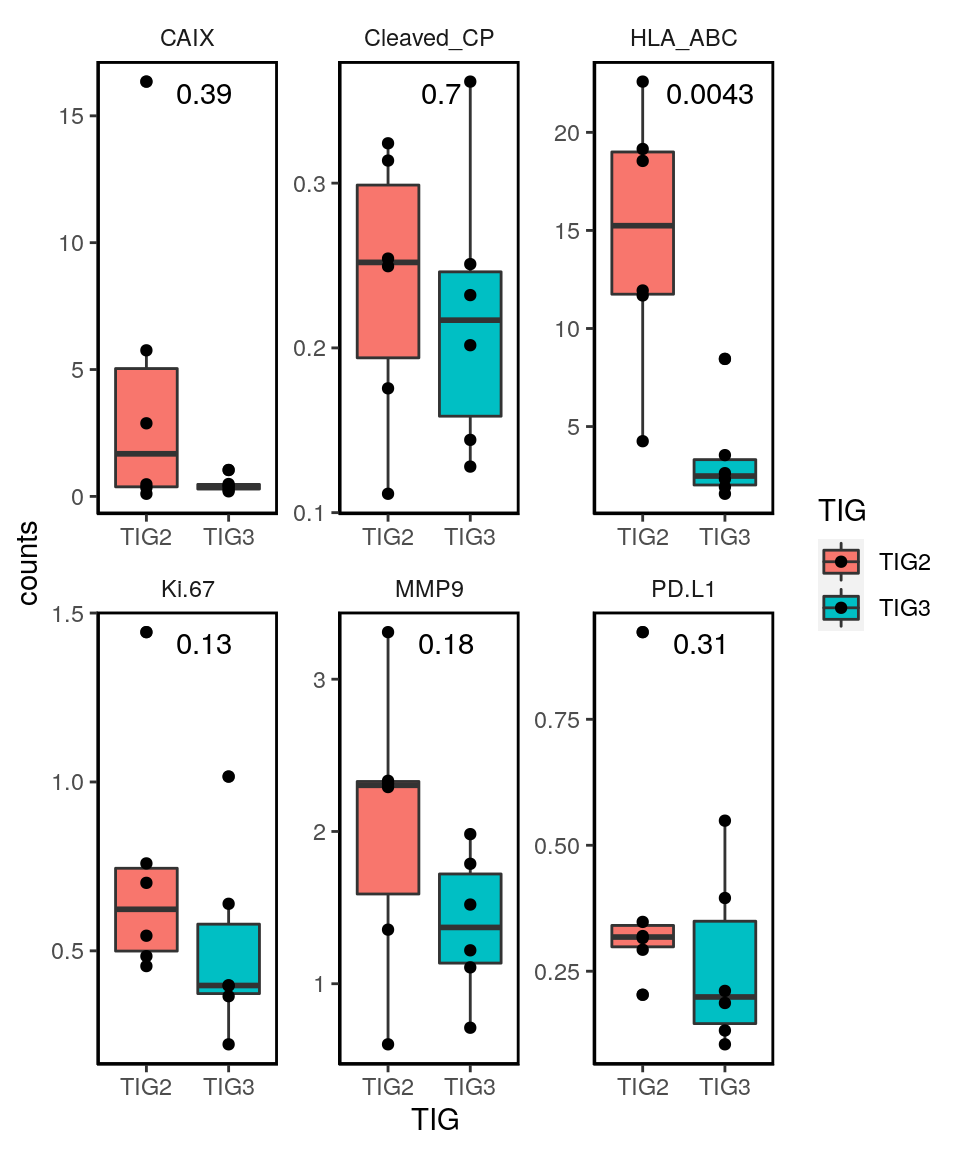
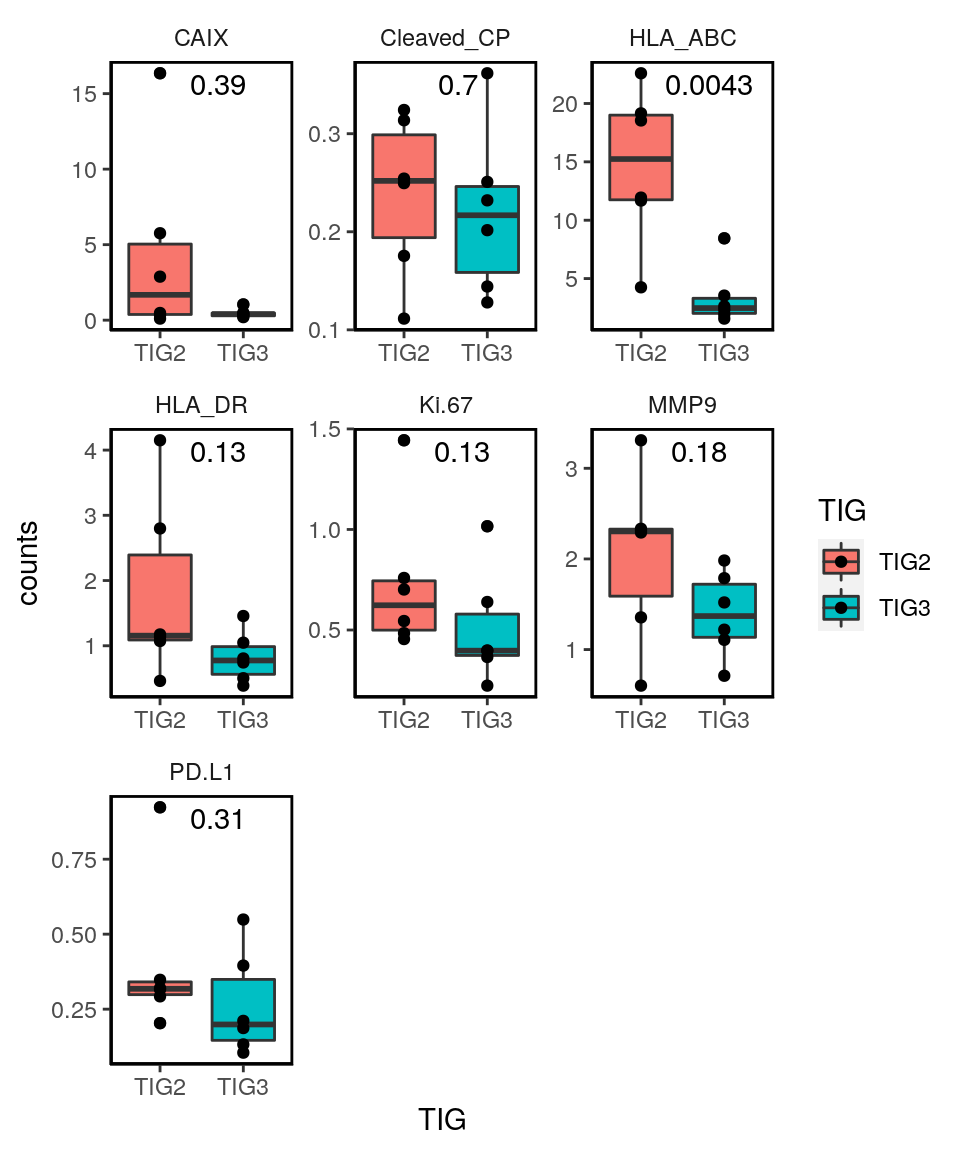
Build site.

Changed region(s): [[0.0625, 0.0, 0.8125, 1.0], [0.125, 0.9375, 0.1875, 0.9688], [0.75, 0.1875, 0.7812, 0.2188]]

diff --git a/docs/06_proteinPanel_tumor_analysis.html b/docs/06_proteinPanel_tumor_analysis.html
@@ -413,7 +413,7 @@ div.tocify {
 <div class="tab-content">
 <div id="summary" class="tab-pane fade in active">
 <p>
-<strong>Last updated:</strong> 2020-11-26
+<strong>Last updated:</strong> 2021-02-10
 </p>
 <p>
 <strong>Checks:</strong> <span class="glyphicon glyphicon-ok text-success" aria-hidden="true"></span> 7 <span class="glyphicon glyphicon-exclamation-sign text-danger" aria-hidden="true"></span> 0
@@ -504,16 +504,16 @@ This reproducible <a href="http://rmarkdown.rstudio.com">R Markdown</a> analysis
 <div class="panel panel-default">
 <div class="panel-heading">
 <p class="panel-title">
-<a data-toggle="collapse" data-parent="#workflowr-checks" href="#strongRepositoryversionstrongahrefhttpsgithubcomSandraTietscherBCexhIMCtreeb796124309ef6b8799c7f18ee42c7349eab777cctargetblankb796124a"> <span class="glyphicon glyphicon-ok text-success" aria-hidden="true"></span> <strong>Repository version:</strong> <a href="https://github.com/SandraTietscher/BCexh_IMC/tree/b796124309ef6b8799c7f18ee42c7349eab777cc" target="_blank">b796124</a> </a>
+<a data-toggle="collapse" data-parent="#workflowr-checks" href="#strongRepositoryversionstrongahrefhttpsgithubcomSandraTietscherBCexhIMCtree15d72a1081352039bbc76412f676cfdde2cee031targetblank15d72a1a"> <span class="glyphicon glyphicon-ok text-success" aria-hidden="true"></span> <strong>Repository version:</strong> <a href="https://github.com/SandraTietscher/BCexh_IMC/tree/15d72a1081352039bbc76412f676cfdde2cee031" target="_blank">15d72a1</a> </a>
 </p>
 </div>
[2 lines of base64/hex data omitted]
 <div class="panel-body">
 <p>
 Great! You are using Git for version control. Tracking code development and connecting the code version to the results is critical for reproducibility.
 </p>
 <p>
-The results in this page were generated with repository version <a href="https://github.com/SandraTietscher/BCexh_IMC/tree/b796124309ef6b8799c7f18ee42c7349eab777cc" target="_blank">b796124</a>. See the <em>Past versions</em> tab to see a history of the changes made to the R Markdown and HTML files.
+The results in this page were generated with repository version <a href="https://github.com/SandraTietscher/BCexh_IMC/tree/15d72a1081352039bbc76412f676cfdde2cee031" target="_blank">15d72a1</a>. See the <em>Past versions</em> tab to see a history of the changes made to the R Markdown and HTML files.
 </p>
 <p>
 Note that you need to be careful to ensure that all relevant files for the analysis have been committed to Git prior to generating the results (you can use <code>wflow_publish</code> or <code>wflow_git_commit</code>). workflowr only checks the R Markdown file, but you know if there are other scripts or data files that it depends on. Below is the status of the Git repository when the results were generated:
@@ -523,12 +523,20 @@ Ignored files:
     Ignored:    analysis/.Rhistory
 
 Untracked files:
+    Untracked:  BB184_aDC_PD1.png
+    Untracked:  BB212_aDC_PD1.png
+    Untracked:  BB212_aDC_PD1_Bcells.png
     Untracked:  CD11c_CD68_scatter.png
-    Untracked:  Neighbourhood_TLS_relative.pdf
     Untracked:  Neighbourhood_TLS_relative.png
-    Untracked:  Neighbourhood_all_relative.pdf
     Untracked:  Neighbourhood_all_relative.png
+    Untracked:  PD1_tumor_neighbour_boxplot.png
+    Untracked:  RNApanel_ROImean_HLAABC_CXCL13protein.png
+    Untracked:  RNApanel_ROImean_HLAABC_CXCL13rna.png
+    Untracked:  RNApanel_nonrandom_clusters.pdf
+    Untracked:  TBB129_aDC_PD1.png
+    Untracked:  TBB129_aDC_PD1_Bcell.png
     Untracked:  analysis/XX_RNApanel_neighbourhood.Rmd
+    Untracked:  barplot_tumorSubtype_image.pdf
     Untracked:  cytokine_environment.png
     Untracked:  data/RNAseq_Tcells.rds
     Untracked:  data/RNAseq_epithelial.rds
@@ -550,12 +558,13 @@ Untracked files:
     Untracked:  output/sce_RNApanel_afterQC.rds
     Untracked:  output/sce_RNApanel_initial.rds
     Untracked:  output/sce_RNApanel_initial_TLSrevised.rds
-    Untracked:  test.pdf
-    Untracked:  test.png
-    Untracked:  test_Treg_enrichment.png
+    Untracked:  proteinPanel_PCA_HLAABC_PD1_CD274.png
+    Untracked:  proteinPanel_ROImean_HLAABC_PD1.png
+    Untracked:  proteinPanel_ROImean_HLAABC_PDL1.png
 
 Unstaged changes:
-    Modified:   analysis/11_RNAscope_cytokine_communities.Rmd
+    Modified:   analysis/10_RNApanel_TNK_cytokines.Rmd
+    Modified:   analysis/13_proteinPanel_neighbourhood_extended.Rmd
 
 </code></pre>
 <p>
@@ -594,6 +603,40 @@ Message
 </tr>
 </thead>
 <tbody>
+<tr>
+<td>
+Rmd
+</td>
+<td>
+<a href="https://github.com/SandraTietscher/BCexh_IMC/blob/15d72a1081352039bbc76412f676cfdde2cee031/analysis/06_proteinPanel_tumor_analysis.Rmd" target="_blank">15d72a1</a>
+</td>
+<td>
+SandraTietscher
+</td>
+<td>
+2021-02-10
+</td>
+<td>
+Add HLA-DR to marker comparison
+</td>
+</tr>
+<tr>
+<td>
+html
+</td>
+<td>
+<a href="https://rawcdn.githack.com/SandraTietscher/BCexh_IMC/a78bd3ca5cc1fe1d6df8b640ffb5f2cdef8be825/docs/06_proteinPanel_tumor_analysis.html" target="_blank">a78bd3c</a>
+</td>
+<td>
+SandraTietscher
+</td>
+<td>
+2020-11-26
+</td>
+<td>
+Build site.
+</td>
+</tr>
 <tr>
 <td>
 Rmd
@@ -1059,19 +1102,20 @@ counts &lt;- data.frame(HLA_ABC = assay(sce_tumor, &quot;counts&quot;)[&quot;HLA
                     CAIX = assay(sce_tumor, &quot;counts&quot;)[&quot;CAIX&quot;,],
                     Cleaved_CP = assay(sce_tumor, &quot;counts&quot;)[&quot;Cleaved_CP&quot;,],
                     `PD-L1` = assay(sce_tumor, &quot;counts&quot;)[&quot;CD274&quot;,],
-                    MMP9 = assay(sce_tumor, &quot;counts&quot;)[&quot;MMP9&quot;,])
+                    MMP9 = assay(sce_tumor, &quot;counts&quot;)[&quot;MMP9&quot;,],
+                    HLA_DR = assay(sce_tumor, &quot;counts&quot;)[&quot;HLA-DR&quot;,])
 tumor_tab_2 &lt;- cbind(counts, colData(sce_tumor))
-tumor_tab_2 &lt;- pivot_longer(tumor_tab_2, 1:6, names_to = &quot;marker&quot;, values_to = &quot;counts&quot;)
+tumor_tab_2 &lt;- pivot_longer(tumor_tab_2, 1:7, names_to = &quot;marker&quot;, values_to = &quot;counts&quot;)
 
 sample_means &lt;- data.frame(sample = levels(factor(tumor_tab_2$sample)))
-for (i in c(&quot;HLA_ABC&quot;, &quot;CAIX&quot;, &quot;Cleaved_CP&quot;, &quot;Ki.67&quot;, &quot;PD.L1&quot;, &quot;MMP9&quot;)) {
+for (i in c(&quot;HLA_ABC&quot;, &quot;CAIX&quot;, &quot;Cleaved_CP&quot;, &quot;Ki.67&quot;, &quot;PD.L1&quot;, &quot;MMP9&quot;, &quot;HLA_DR&quot;)) {
   tumor.i &lt;- filter(tumor_tab_2, marker == i)
   i.means &lt;- tumor.i %&gt;% group_by(sample) %&gt;% dplyr::summarise(mean = mean(counts))
   sample_means[,i] &lt;- i.means$mean
 }
 
 sample_means$TIG &lt;- ifelse(sample_means$sample %in% TIG2, &quot;TIG2&quot;, &quot;TIG3&quot;)
-sample_means &lt;- pivot_longer(sample_means, 2:7, names_to = &quot;marker&quot;, values_to = &quot;counts&quot;)
+sample_means &lt;- pivot_longer(sample_means, 2:8, names_to = &quot;marker&quot;, values_to = &quot;counts&quot;)
 
 ggplot(sample_means, aes(TIG, counts, fill = TIG))+
     geom_boxplot(aes(fill=TIG))+
@@ -1606,6 +1650,17 @@ Date
 <tbody>
 <tr>
 <td>
+<a href="https://github.com/SandraTietscher/BCexh_IMC/blob/a78bd3ca5cc1fe1d6df8b640ffb5f2cdef8be825/docs/figure/06_proteinPanel_tumor_analysis.Rmd/subtype-marker-comparison-singlecell-1.png" target="_blank">a78bd3c</a>
+</td>
+<td>
+SandraTietscher
+</td>
+<td>
+2020-11-26
+</td>
+</tr>
+<tr>
+<td>
 <a href="https://github.com/SandraTietscher/BCexh_IMC/blob/27619c2b7baaf6c6a106b5b542213a8dbade6916/docs/figure/06_proteinPanel_tumor_analysis.Rmd/subtype-marker-comparison-singlecell-1.png" target="_blank">27619c2</a>
 </td>
 <td>
@@ -1664,6 +1719,17 @@ Date
 </tr>
 </thead>
 <tbody>
+<tr>
+<td>
+<a href="https://github.com/SandraTietscher/BCexh_IMC/blob/a78bd3ca5cc1fe1d6df8b640ffb5f2cdef8be825/docs/figure/06_proteinPanel_tumor_analysis.Rmd/subtype-marker-comparison-singlecell-TIG2-1.png" target="_blank">a78bd3c</a>
+</td>
+<td>
+SandraTietscher
+</td>
+<td>
+2020-11-26
+</td>
+</tr>
 <tr>
 <td>
 <a href="https://github.com/SandraTietscher/BCexh_IMC/blob/27619c2b7baaf6c6a106b5b542213a8dbade6916/docs/figure/06_proteinPanel_tumor_analysis.Rmd/subtype-marker-comparison-singlecell-TIG2-1.png" target="_blank">27619c2</a>
